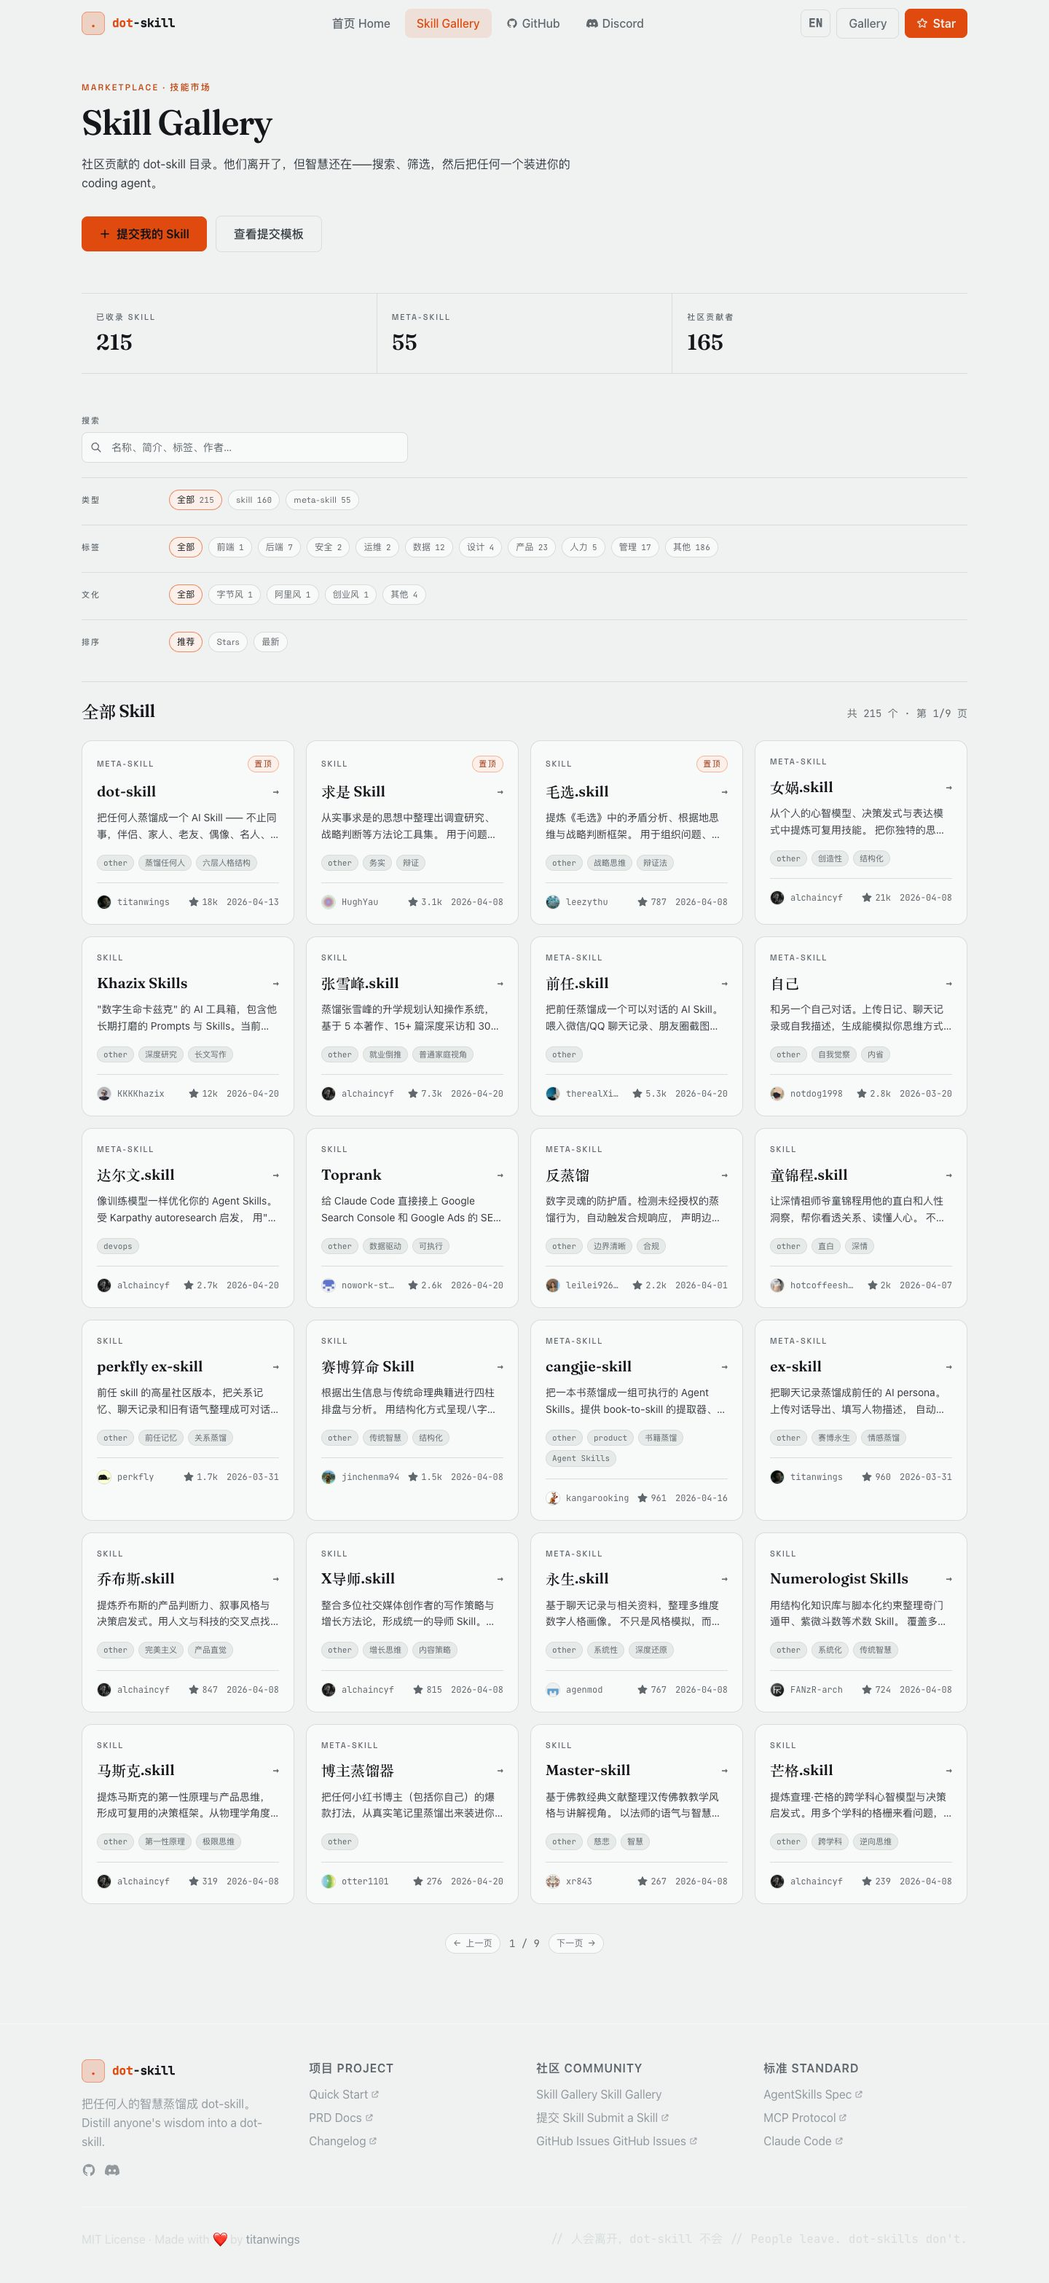
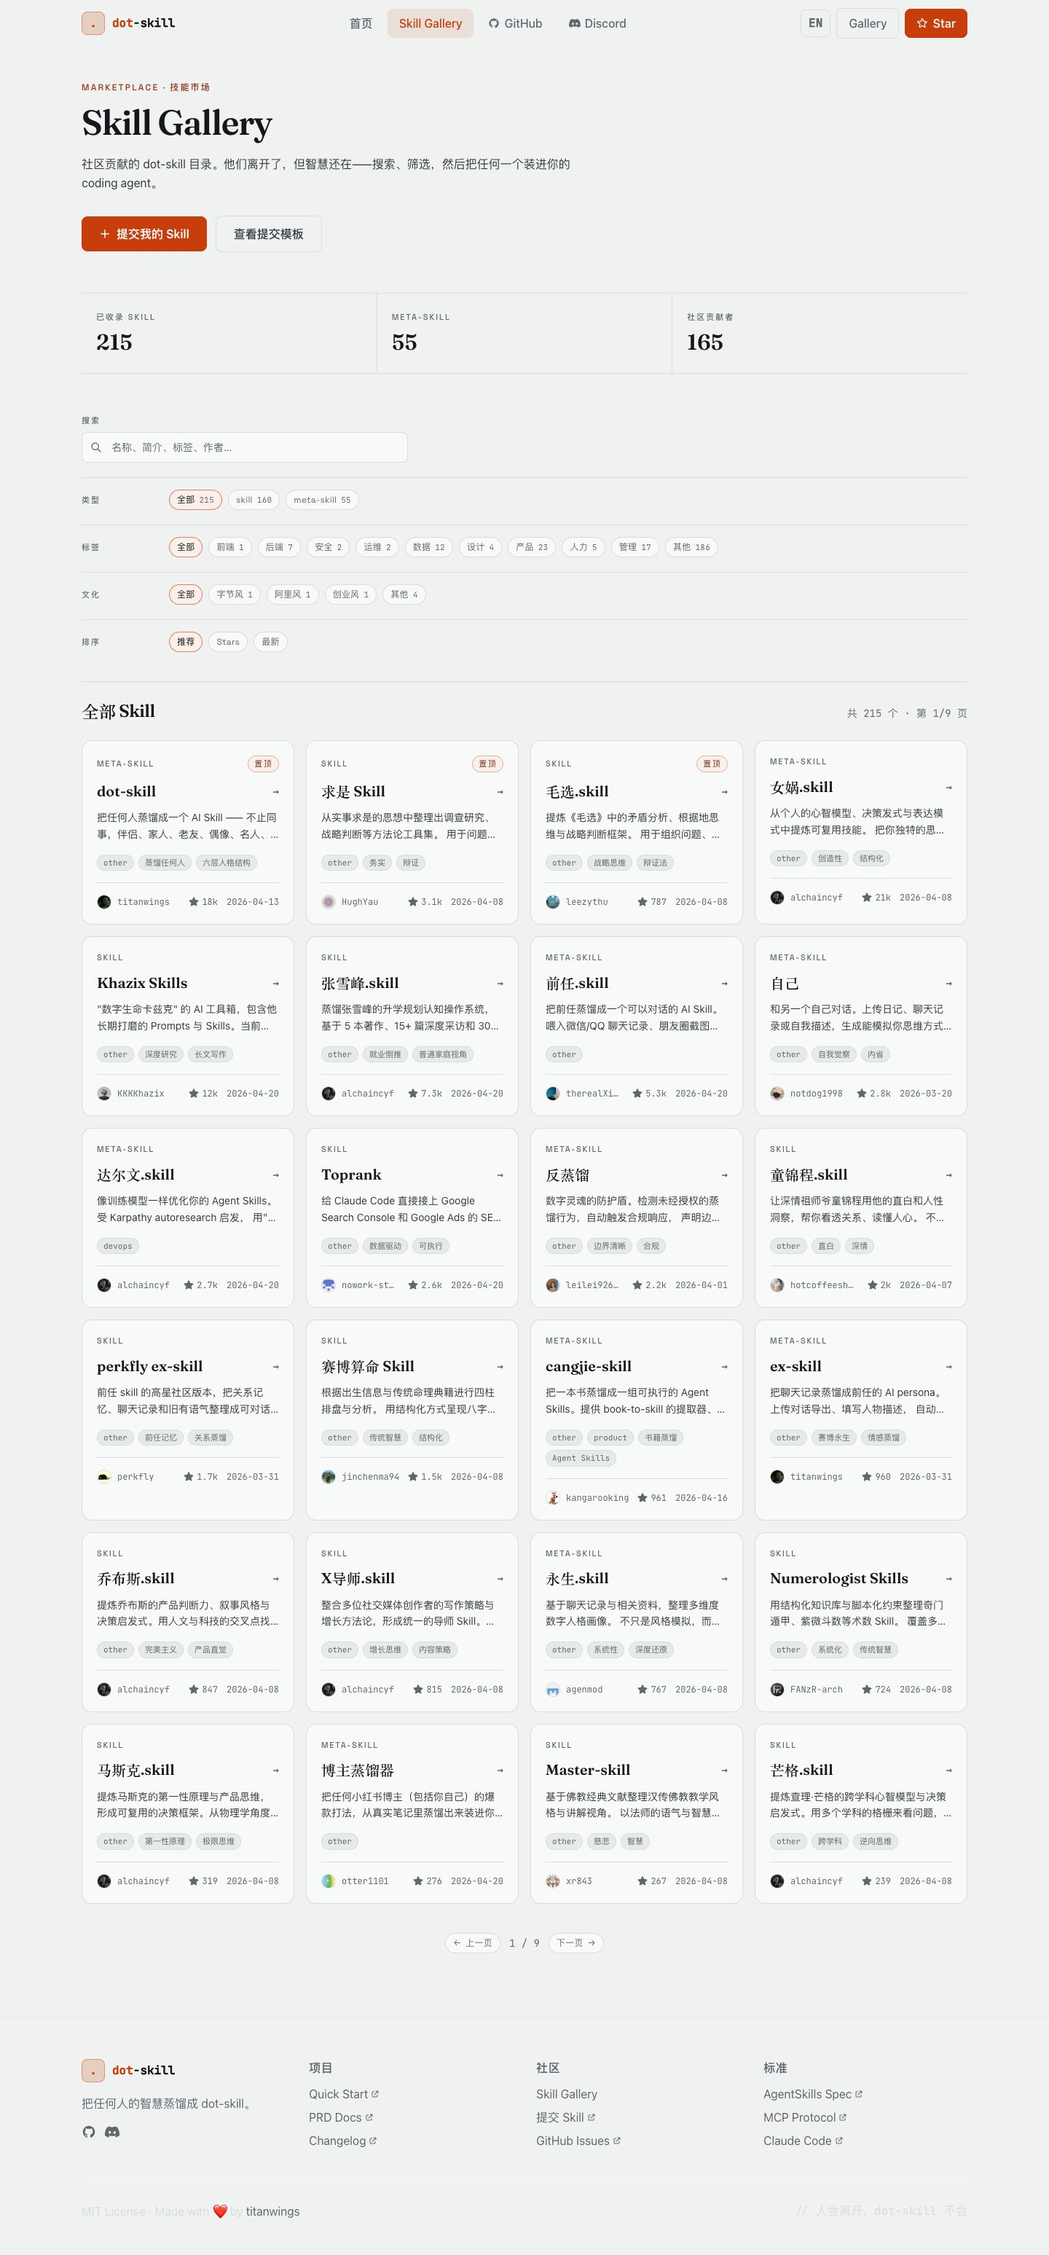
docs(evidence): record the PR 03 post-review cleanup
Adds a "Post-review cleanup" section: which two workarounds were deleted and
why they were safe to delete, what the new skillsCliSupported() /
requireVerified / cloneCommand split does to the Pi panel, and the post-merge
recapture. Heights are now two columns read from the two capture receipts
(pre-merge 8954134 vs this tip), with the delta attributed to the base language
fix: home 7488 → 5997 px, gallery 3133 → 3095 px, detail 3227 → 3189 px. The
5997 / 2463 / 1389 px figures from the review request are the base without
PR 03 — home matches because it is untouched here, while 2463 / 1389 describe
the pre-refactor gallery and detail pages this PR replaced.

The contrast section gains a dark-plate audit, because the base darkened the
light accent and remapped the legacy surface aliases onto ink shades: all 30
`#install-agents pre` / `code` elements across the 8 agent panels resolve to
`--plate-ink` and clear 4.5:1 in both themes, the 15 plate text nodes on the
detail page have 0 violations, the gallery has no plate surface, and the one
accent fill (`main .btn-primary`) resolves to `--accent-ink`. The assertion
total is now 56/56, pasted verbatim. Screenshots and the receipt are refreshed
for the merged build, plus a new Pi-unconfirmed panel shot.

diff --git a/docs/evidence/pr-03-gallery.md b/docs/evidence/pr-03-gallery.md
@@ -6,7 +6,8 @@ detail page — including an install block that only ships commands it can point
 at a source for.
 
 - Branch: `site/03-gallery` (worktree `/tmp/cs-03-gallery`)
-- Base: `688ec35` (evidence log + baseline captures)
+- Base: `688ec35` (evidence log + baseline captures), synced with
+  `site/01-design-system` in `f7b6138` after review
 - Touched files: `website/src/components/SkillCard.astro`,
   `website/src/components/SkillGallery.astro`,
   `website/src/pages/gallery/index.astro`,
@@ -23,10 +24,72 @@ at a source for.
 | `b714a45` | `refactor(gallery): restyle the gallery index header and catalog stats` |
 | `a45f892` | `feat(gallery): rebuild search, filters and sorting` |
 | `b729837` | `feat(gallery): rebuild the detail page with a verified install block` |
-| _this file_ | `docs(evidence): record the PR 03 gallery refactor` |
+| `8954134` | `docs(evidence): record the PR 03 gallery refactor` |
+| `f7b6138` | `Merge branch 'site/01-design-system' into site/03-gallery` |
+| `e76d839` | `refactor(gallery): drop the workarounds the base branch has since fixed` |
+| `80604eb` | `feat(gallery): flag unconfirmed AgentSkills CLI targets in the install block` |
+| _this file_ | `docs(evidence): record the PR 03 post-review cleanup` |
 
-Each commit was built on its own (`npm run build`, 217 pages) before the next
-one was made.
+Each code commit was built on its own (`npm run build`, 217 pages) before the
+next one was made.
+
+## Post-review cleanup
+
+The review passed on `8954134`; the base branch then landed six commits
+(`5758ec7`, `59f66e1`, `ac1ad0d`, `4b4b889`, `00a1db1`, `ac7ca3a`) that made two
+PR 03 workarounds obsolete and added one API the detail page should use. Merged
+with `git merge --no-edit site/01-design-system` (no conflicts: the base never
+touches the four gallery files).
+
+**Removed (`e76d839`)**
+
+| Workaround | Why it existed | Why it is gone |
+| --- | --- | --- |
+| `.lang-scope .lang-en { display: none }` + 2 siblings, copied into `SkillGallery.astro` and `[slug].astro`, plus the `lang-scope` marker class on the page roots | PR 01 had dropped the site-wide `.lang-zh` / `.lang-en` rules, so both languages rendered at once | `5758ec7` restored them in `global.css`, which now states components must not ship scoped copies |
+| `text-plate` on the gallery CTA | `.btn-primary` hard-coded `text-white` on the accent fill (4.05:1 light / 2.26:1 dark) | `00a1db1` added `--accent-ink` + `text-accent-ink`; `.btn-primary` now clears AA in both themes |
+
+The two `<style is:global>` blocks stay — every remaining selector is namespaced
+by `#gallery-root` / `#install-agents`, so nothing leaks and the blocks are
+immune to Astro's scope rewriting.
+
+**Adopted (`80604eb`)**
+
+`ac1ad0d` split "has a documented install directory" from "is a confirmed
+AgentSkills CLI target": `skillsCliSupported('pi')` is `false`, and
+`skillsCliCommand(..., { requireVerified: true })` throws instead of printing an
+unverified `--agent pi`. The install block now branches on that: the 7 verified
+hosts keep both exact CLI commands (global + project scope, 14 commands), while
+Pi shows a `CLI 未确认 / CLI unconfirmed` flag, a sentence naming the unverified
+flag, and the `cloneCommand()` route
+(`git clone https://github.com/titanwings/distilly ~/.pi/agent/skills/distilly`)
+plus its documented directory — one copyable command, none invented. See
+`images/pr-03-gallery-detail-light-pi-unverified.jpg`.
+
+**Recaptured after the merge** — both columns are desktop heights read from the
+two `docs/evidence/captures/pr-03-gallery.json` receipts (pre-merge: commit
+`8954134`; post-merge: this branch tip), not hand-measured:
+
+| Surface (desktop) | Pre-merge receipt | Post-merge receipt | Δ | Attribution |
+| --- | --- | --- | --- | --- |
+| `home` (not this PR) | 7488 px | **5997 px** | −1491 px | base language fix (`5758ec7`): the duplicated-language text is gone from every home section |
+| `gallery` | 3133 px | **3095 px** | −38 px | same cause, limited to the shared chrome — PR 03's own `<main>` was already single-language |
+| `detail` | 3227 px | **3189 px** | −38 px | same cause |
+| `home` mobile | 14084 px | 10180 px | −3904 px | same cause |
+| `gallery` mobile | 8735 px | 8613 px | −122 px | same cause |
+| `detail` mobile | 5222 px | 5100 px | −122 px | same cause |
+
+The numbers in the review request (5997 / 2463 / 1389 px) are the *base without
+PR 03* figures — `home` 5997 px matches this branch exactly because the home page
+is untouched here, but `gallery` 2463 px and `detail` 1389 px describe the old
+pages PR 03 deliberately replaced: the gallery gained a five-row filter bar, a
+live result count and 24-card pagination, the detail page gained the install
+switcher, the example exchange and the related grid. The meaningful comparison
+for those two pages is the live-site `before-*` capture, not those numbers.
+
+
+The chrome contrast debt also dropped with the base token fix: from 39 unique AA
+text failures to **5** (3 light / 2 dark), listed in the contrast table below.
+
 
 ## What changed
 
@@ -113,34 +176,39 @@ code blocks on the `plate` tokens.
 
 ```console
 $ cd /tmp/cs-03-gallery/website && npm run build
-00:48:20 [build] 217 page(s) built in 1.49s
-00:48:20 [build] Complete!
+01:07:12 [build] 217 page(s) built in 4.06s
+01:07:12 [build] Complete!
 ```
 
-217 pages = 1 home + 1 gallery + 215 detail pages.
+217 pages = 1 home + 1 gallery + 215 detail pages. Re-run after the merge and
+after each of the two cleanup commits.
 
 ### Evidence capture
 
+`capture.mjs` now refuses a preview server that is not this build and needs a
+free port (base `59f66e1`), so the run passes one explicitly.
+
 ```console
-$ cd /tmp/cs-03-gallery/website && node scripts/capture.mjs --label pr-03-gallery
+$ cd /tmp/cs-03-gallery/website && node scripts/capture.mjs --label pr-03-gallery --port 4412
 captured 12 screenshots for "pr-03-gallery" → docs/evidence/images
-  home/light/desktop: 7488px   home/light/mobile: 14084px
-  home/dark/desktop: 7488px    home/dark/mobile: 14084px
-  gallery/light/desktop: 3133px  gallery/light/mobile: 8735px
-  gallery/dark/desktop: 3133px   gallery/dark/mobile: 8735px
-  detail/light/desktop: 3227px   detail/light/mobile: 5222px
-  detail/dark/desktop: 3227px    detail/dark/mobile: 5222px
+  home/light/desktop: 5997px     home/light/mobile: 10180px
+  home/dark/desktop: 5997px      home/dark/mobile: 10180px
+  gallery/light/desktop: 3095px  gallery/light/mobile: 8613px
+  gallery/dark/desktop: 3095px   gallery/dark/mobile: 8613px
+  detail/light/desktop: 3189px   detail/light/mobile: 5100px
+  detail/dark/desktop: 3189px    detail/dark/mobile: 5100px
 ```
 
 No `FAIL` line, exit code 0. Receipt: [`captures/pr-03-gallery.json`](captures/pr-03-gallery.json)
 — 12 captures, `failures: []`, `consoleErrors: []` and `overflowX: false` for
 every page/theme/viewport. The four `home` captures are byte-identical to
-PR 01's: the home page is outside this PR.
+PR 01's: the home page is outside this PR. (Pre-merge heights were 7488 /
+3133 / 3227 px; the drop is the base language fix, see "Post-review cleanup".)
 
 ### Interaction assertions (temporary Playwright script, not committed)
 
 `/tmp/cs03/verify.mjs` starts/reuses `astro preview` and drives the real
-Chromium build. 42/42 checks pass, exit code 0.
+Chromium build. 56/56 checks pass, exit code 0.
 
 ```console
 $ node /tmp/cs03/verify.mjs
@@ -183,14 +251,31 @@ PASS  detail: ArrowRight moves selection and focus to the next agent tab — {"f
 PASS  detail: End jumps to the last agent tab (Pi)
 PASS  detail: copy button writes the exact command to the clipboard —
       npx -y skills add titanwings/distilly --skill distilly --agent claude-code --global --copy --yes
+PASS  detail: every other host still gets a verified --agent command
+PASS  detail: Pi is flagged as an unconfirmed CLI target and gets the clone route —
+      ["git clone https://github.com/titanwings/distilly ~/.pi/agent/skills/distilly"]
 PASS  detail: copy button reports success in a live region — 已复制
+PASS  PR-03 gallery: main .btn-primary uses --accent-ink and clears AA — gallery/light — 1 element(s), expected colour rgb(255,255,255)
+PASS  dark plate text uses plate-safe colours and clears AA — gallery/light — 0 plate text node(s), colours=[]
+PASS  accent fills use accent-ink and clear AA — gallery/light — 3 accent-filled text node(s), colours=[rgb(239, 242, 241) | rgb(255, 255, 255)]
 PASS  contrast AA gallery/light — PR-03 content only — no text below WCAG AA inside <main>
+PASS  PR-03 gallery: main .btn-primary uses --accent-ink and clears AA — gallery/dark — 1 element(s), expected colour rgb(21,24,27)
+PASS  dark plate text uses plate-safe colours and clears AA — gallery/dark — 0 plate text node(s), colours=[]
+PASS  accent fills use accent-ink and clear AA — gallery/dark — 3 accent-filled text node(s), colours=[rgb(15, 18, 22) | rgb(21, 24, 27)]
 PASS  contrast AA gallery/dark — PR-03 content only — no text below WCAG AA inside <main>
+PASS  PR-03 detail: #install-agents pre, #install-agents pre code uses --plate-ink and clears AA — detail/light — 30 element(s), expected colour rgb(230,237,243)
+PASS  dark plate text uses plate-safe colours and clears AA — detail/light — 15 plate text node(s), colours=[rgb(230, 237, 243)]
+PASS  accent fills use accent-ink and clear AA — detail/light — 1 accent-filled text node(s), colours=[rgb(239, 242, 241)]
 PASS  contrast AA detail/light — PR-03 content only — no text below WCAG AA inside <main>
+PASS  PR-03 detail: #install-agents pre, #install-agents pre code uses --plate-ink and clears AA — detail/dark — 30 element(s), expected colour rgb(230,237,243)
+PASS  dark plate text uses plate-safe colours and clears AA — detail/dark — 15 plate text node(s), colours=[rgb(230, 237, 243)]
+PASS  accent fills use accent-ink and clear AA — detail/dark — 1 accent-filled text node(s), colours=[rgb(15, 18, 22)]
 PASS  contrast AA detail/dark — PR-03 content only — no text below WCAG AA inside <main>
 PASS  no console errors / page errors anywhere — none
 
-42/42 checks passed
+full contrast report → /tmp/cs03/contrast-report.json
+
+56/56 checks passed
 ```
 
 ### Contrast audit
@@ -204,13 +289,49 @@ text) using the computed styles. Full dump: `/tmp/cs03/contrast-report.json`.
 | --- | --- | --- |
 | gallery `<main>` (PR 03) | 0 offenders | 0 offenders |
 | detail `<main>` (PR 03) | 0 offenders | 0 offenders |
-| shared Navbar (not PR 03) | 3 | 0 |
-| shared Footer (not PR 03) | 18 | 18 |
+| shared Navbar (not PR 03) | 1 | 0 |
+| shared Footer (not PR 03) | 2 | 2 |
 
-The 39 unique chrome failures are the ones the PR 05 axe report counts; they
-come from `text-surface-500/600` used as body text in `Navbar.astro` /
-`Footer.astro` and from `.btn-primary`'s `text-white` on the accent fill
-(4.05:1 light, 2.26:1 dark). See "Known gaps".
+After the base merge only 5 unique chrome failures remain (down from 39 before
+`00a1db1`/the `surface-500` remap):
+
+| Where | Text | Ratio | Cause |
+| --- | --- | --- | --- |
+| Navbar, light | "Skill Gallery" (active link) | 3.93:1 | `text-brand-400` → `--accent` on `bg-accent/10` |
+| Footer, light/dark | "MIT License · Made with ❤ by" | 1.22 / 1.41:1 | `text-surface-600` → `--line` used as text |
+| Footer, light/dark | `// 人会离开，dot-skill 不会` | 1.22 / 1.41:1 | `text-surface-600` → `--line` used as text |
+
+All five live in `Navbar.astro` / `Footer.astro` (other agents' files, PR 04) —
+reported here for the integration-branch axe pass, not fixed in PR 03.
+
+### Dark plate / code-block audit
+
+The base darkened the light-theme accent and remapped the legacy
+`surface-300…500` aliases onto ink shades, which makes the old token habits
+(`text-brand-*`, `text-surface-*`) unsafe **on a dark plate**. PR 03 owns three
+plate blocks (the two install commands inside each agent panel) and no others,
+so the check is explicit rather than implied:
+
+- every element matching `#install-agents pre, #install-agents pre code` — 30
+  elements across all 8 panels, not just the visible one — resolves to
+  `rgb(230, 237, 243)` = `--plate-ink` in **both** themes;
+- every text node whose composited background *is* `--plate` clears 4.5:1
+  (15 nodes on the detail page, 0 on the gallery — it has no plate surface);
+- the gallery's one accent fill (`main .btn-primary`) resolves to
+  `--accent-ink` (white in light, `rgb(21, 24, 27)` in dark) and clears 4.5:1.
+
+| Checked | light | dark |
+| --- | --- | --- |
+| `#install-agents pre` + `code` elements, colour must be `--plate-ink` | 30 / 30 pass | 30 / 30 pass |
+| text nodes composited on `--plate` (detail) | 15, 0 violations | 15, 0 violations |
+| text nodes composited on `--accent` (gallery, incl. shared chrome) | 3, 0 violations | 3, 0 violations |
+| gallery `main .btn-primary`, colour must be `--accent-ink` | 1 / 1 pass | 1 / 1 pass |
+
+Step numbers, eyebrows, path cells and the copy buttons all sit on paper
+(`bg-paper`, `bg-paper-raised`, `bg-paper-sunk`) and therefore use `text-ink` /
+`text-ink-muted`; nothing in these four files puts `text-brand-*`,
+`text-surface-*`, `text-ink-*` or `text-accent-*` on a plate, and the only
+accent-on-plate treatment anywhere is a fill with `text-accent-ink`.
 
 ### Hard-coded colours
 
@@ -240,33 +361,30 @@ all colour comes from the semantic tokens, including the `<style>` blocks
 | Detail (dark, desktop) | — | `images/pr-03-gallery-detail-dark.jpg` |
 | Detail (mobile) | — | `images/pr-03-gallery-detail-light-mobile.jpg` |
 | Detail install block | — | `images/pr-03-gallery-detail-light-install-tabs.jpg`, `images/pr-03-gallery-detail-light-mobile-install.jpg` |
+| Detail install, unconfirmed host (Pi) | — | `images/pr-03-gallery-detail-light-pi-unverified.jpg` |
 
-The last six images are extra scrolled/viewport shots taken with a temporary
-script, because `scripts/capture.mjs` only takes viewport-only mobile shots and
-never scrolls — the responsive grid and the install tablist are below the fold
+The seven extra scrolled/viewport shots (`*-tablet.jpg`, `*-mobile-grid.jpg`,
+`*-empty.jpg`, `*-install-tabs.jpg`, `*-mobile-install.jpg`,
+`*-pi-unverified.jpg`) were taken with a temporary script, because
+`scripts/capture.mjs` only takes viewport-only mobile shots and never scrolls —
+the responsive grid, the empty state and the install tablist are below the fold
 in its output.
 
 ## Known gaps and unverified items
 
-### Base-layer (do not fix here — owned by PR 01 / PR 05)
+### Base-layer
 
-1. **`.lang-zh` / `.lang-en` visibility was dropped by PR 01.** Commit `9497db4`
-   replaced `global.css` and removed
-   `html[data-lang="en"] .lang-zh { display: none }` and its two siblings, so
-   **both languages render at once site-wide** (visible in the Navbar, Footer
-   and every page). PR 03 does not edit base files; instead each of its entry
-   points carries three `.lang-scope`-prefixed rules that reproduce the original
-   behaviour inside its own subtree. Delete them once `global.css` has the rules
-   back.
-2. **`.btn-primary` uses `text-white` on the accent fill** — 4.05:1 in light,
-   2.26:1 in dark. The gallery CTA overrides it locally with `text-plate`
-   (4.6:1 light / 8.5:1 dark). When the fix lands in `global.css` (or a
-   `text-accent-ink` token exists), that override can go — the class is applied
-   in `pages/gallery/index.astro` with a comment saying so.
-3. **39 unique AA text-contrast failures live in the shared Navbar/Footer**
-   (`text-surface-500` = `--ink-dim`, `text-surface-600` = `--line` used as body
-   text). Listed in `/tmp/cs03/contrast-report.json`; outside this PR's file
-   scope, reported here for the PR 05 sweep.
+1. ~~**`.lang-zh` / `.lang-en` visibility was dropped by PR 01**~~ — **resolved**
+   by the base (`5758ec7`) and PR 03's `.lang-scope` workaround deleted in
+   `e76d839`. Kept here as the record of what the merge fixed.
+2. ~~**`.btn-primary` uses `text-white` on the accent fill** (4.05:1 light /
+   2.26:1 dark)~~ — **resolved** by `00a1db1` (`--accent-ink`), and the local
+   `text-plate` override deleted in `e76d839`.
+3. **5 unique AA text-contrast failures remain in the shared Navbar/Footer**
+   (down from 39 before the base token fixes) — the active nav link and two
+   `text-surface-600` footer lines; full list and ratios in the contrast section
+   above and in `/tmp/cs03/contrast-report.json`. Outside this PR's file scope,
+   reported here for the integration-branch axe sweep.
 4. **Astro 4 compiler quirk**: a `/\\.0$/` regex literal in a page frontmatter
    breaks export hoisting — the compiler keeps `export async function
    getStaticPaths` *inside* the component and esbuild then fails with
@@ -319,15 +437,25 @@ in its output.
 
 ## Rollback
 
-Nothing was pushed, merged or rebased; the branch is linear on top of `688ec35`.
+Nothing was pushed; the branch is linear on top of `688ec35` apart from the
+fast-forward-free merge `f7b6138` of `site/01-design-system`.
 
 ```bash
 cd /tmp/cs-03-gallery
-git revert --no-commit b729837 a45f892 b714a45 52cf3d9   # detail, filters, chrome, card
-git commit -m "revert: PR 03 gallery refactor"           # or drop the worktree entirely
+# whole PR (code + evidence), keeping the merged base:
+git revert --no-commit 80604eb e76d839 b729837 a45f892 b714a45 52cf3d9
+git commit -m "revert: PR 03 gallery refactor"
+# or undo only the post-review sync, keeping the reviewed PR:
+git revert --no-commit 80604eb e76d839 f7b6138
+# or drop the worktree entirely (base tip, no trace):
+git worktree remove /tmp/cs-03-gallery
 ```
 
-The four commits are independent: `git revert <sha>` of any single one leaves
-the others applying cleanly, because they touch four different files (the
-evidence commit only adds `docs/evidence/*`). Deleting the worktree
-(`git worktree remove /tmp/cs-03-gallery`) restores the base tip with no trace.
+The four original commits are independent — each touches a different file, so
+`git revert <sha>` of any single one leaves the others applying cleanly. The two
+cleanup commits are independent of each other too (`e76d839` touches
+`SkillGallery.astro`, `index.astro` and the style block of `[slug].astro`;
+`80604eb` touches only the install block of `[slug].astro`), but note that
+reverting `f7b6138` alone restores the base regression it fixed and re-breaks
+`text-accent-ink` — undo it together with the cleanup that depended on it.
+
